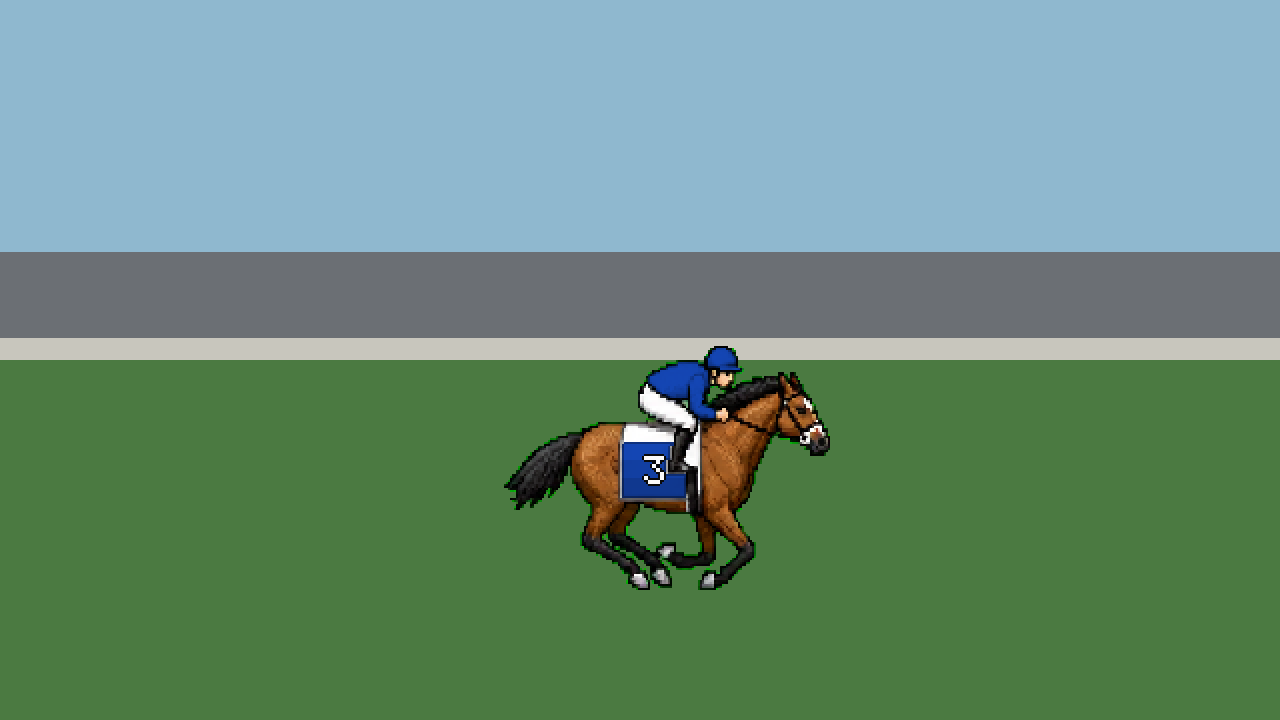
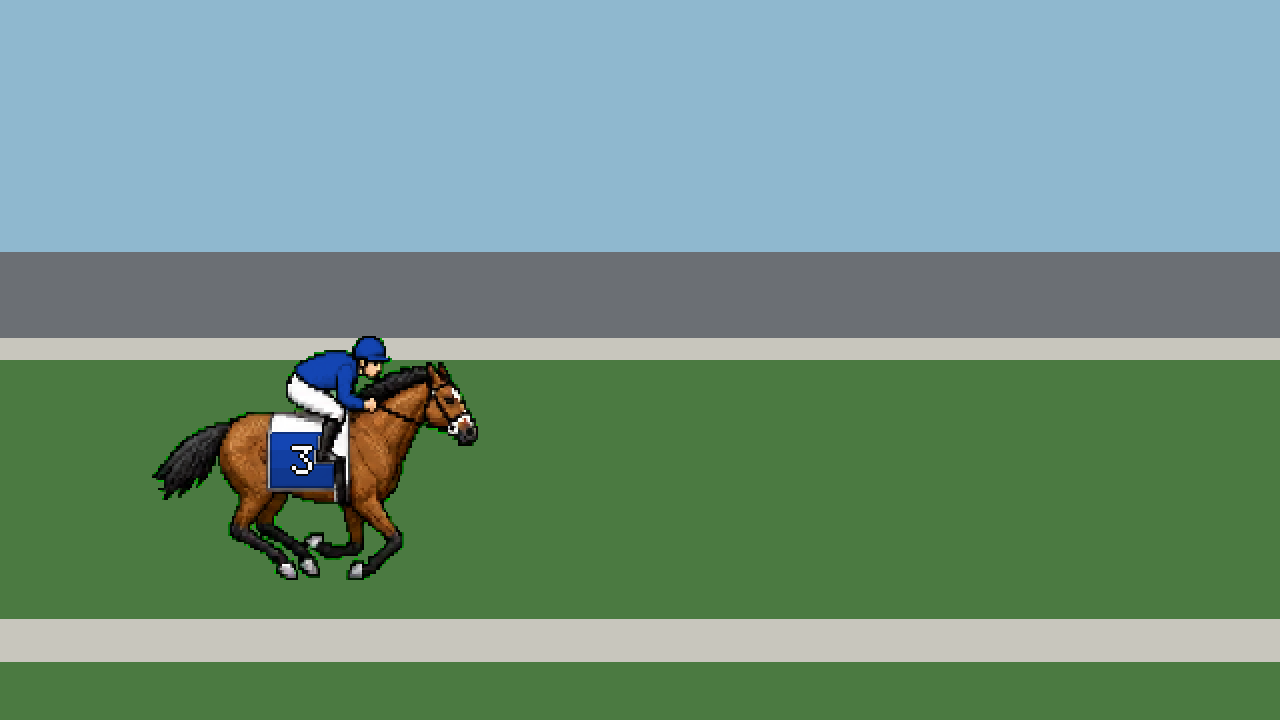
P4: カメラが馬群を写す（1頭固定をやめる）／段を6段に詰めて奥→手前で描く／手前のラチ／★エンジンの走破タイム差が35秒（415m）と判明

Changed region(s): [[0.0, 0.8556, 1.0, 0.9167], [0.125, 0.4583, 0.375, 0.825], [0.375, 0.4889, 0.6562, 0.825]]

diff --git a/packages/render/src/scene.ts b/packages/render/src/scene.ts
@@ -194,6 +194,13 @@ export interface SceneInput {
    *   ⚠ ここで「何mごとか」を発明しません。**間隔は呼び出し側が渡します**。
    */
   readonly poleEveryMeter?: number | undefined;
+  /**
+   * ★カメラを先頭寄りに構える度合い（0＝馬群の重心 / 1＝先頭）。既定 0.5。
+   *   中継は先頭を画面のやや前寄りに置きます。
+   */
+  readonly packBias?: number | undefined;
+  /** ★手前のラチを出すか（馬より前に描かれます） */
+  readonly foregroundRail?: boolean | undefined;
 }
 
 /**
@@ -219,15 +226,44 @@ const BANDS: readonly {
  * ★**カメラ**: 先頭馬を画面の一定位置に置き、走路をスクロールさせる。
  *   アートバイブル §3「奥行きは速度差だけで作る（線遠近を描き込まない）」。
  */
-function cameraMeters(horses: readonly HorseAt[], follow: number | undefined): number {
-  if (follow !== undefined) {
-    const target = horses.find((h) => h.gate === follow);
-    if (target !== undefined) return target.meters;
-  }
+function cameraMeters(
+  horses: readonly HorseAt[], follow: number | undefined, packBias: number,
+): number {
+  /**
+   * ★**カメラは「馬群」を写します。1頭を中央に置き続けません。**
+   *
+   * 【★オーナーの指摘（1996年の作品との比較）】
+   *   > ちゃんと競馬レースのカメラワークになっている。
+   *   > 開発サーバーは**1匹の主役をずっと中央に置いている**
+   *
+   *   中継のカメラは**先頭集団**を追い、先頭が画面のやや前寄りに来ます。
+   *   ★1頭に固定すると、他馬は**その馬との相対速度でしか動かず**、
+   *     画面の外へ出入りを繰り返します。
+   *
+   * 【★C-6 を殺さないこと】
+   *   自馬が画面から出ると仕掛けられません。
+   *   → 馬群の基準に寄せつつ、**自馬が画面に残るところまでで止めます**（下の呼び出し側で clamp）。
+   */
   let lead = 0;
   for (const h of horses) if (h.meters > lead) lead = h.meters;
-  return lead;
+
+  // ★先頭集団の重心（先頭から離れすぎた馬は「馬群」ではないので数えない）
+  const PACK_M = 40;
+  let sum = 0, n = 0;
+  for (const h of horses) {
+    if (lead - h.meters > PACK_M) continue;
+    sum += h.meters;
+    n += 1;
+  }
+  const packCentre = n > 0 ? sum / n : lead;
+
+  // ★先頭寄りに構える（中継は先頭を画面の前寄りに置く）
+  const base = packCentre + (lead - packCentre) * packBias;
+  if (follow === undefined) return base;
+  const target = horses.find((h) => h.gate === follow);
+  return target === undefined ? base : base;
 }
+
 
 /**
  * ★ギャロップのフレームを、**時刻ではなく走った距離**から決める。
@@ -274,10 +310,20 @@ export function sceneAt(input: SceneInput, sec: number): Frame {
     throw new Error(`倍率は 1 か 2 だけです（受け取った値: ${String(camera.zoom)}）`);
   }
   const horses = model.at(sec);
-  const cam = cameraMeters(horses, camera.followGate);
-  const commands: DrawCommand[] = [];
   const PX_PER_M = input.pxPerMeter ?? SPRITE.width / 4;
   const PX_PER_M0 = PX_PER_M;
+
+  /**
+   * ★カメラの位置。馬群に構えつつ、**自馬が画面から出ないところで止めます**（C-6）。
+   */
+  const rawCam = cameraMeters(horses, camera.followGate, input.packBias ?? 0.5);
+  const halfM = vp.width / (2 * PX_PER_M * camera.zoom);
+  const ownHorse = input.ownGate === undefined
+    ? undefined : horses.find((h) => h.gate === input.ownGate);
+  const cam = ownHorse === undefined ? rawCam
+    : Math.max(ownHorse.meters - halfM * 0.55, Math.min(ownHorse.meters + halfM * 0.55, rawCam));
+  const commands: DrawCommand[] = [];
+
 
   /**
    * ★背景は**カメラの位置に応じて流します**（パララックス）。
@@ -335,7 +381,25 @@ export function sceneAt(input: SceneInput, sec: number): Frame {
    *   C-5（同じ seed から同じ映像）が**理由なく**崩れます。
    *   重なりの前後関係が要るなら、レンダラではなくここで明示的に決めること。
    */
-  const sorted = [...horses].sort((a, b) => a.gate - b.gate);
+  /**
+   * ★**奥（上の段）から手前（下の段）へ描きます。**
+   *   ⚠ 馬番順のままだと、手前の馬が奥の馬に隠れて**重なりが逆**になります。
+   *      実際の中継は**手前の馬が奥を隠します**。馬群に見せるにはこの順序が要ります。
+   *   ★同じ段の中は**馬番順**なので、順序は決まります（C-5 は崩れません）。
+   */
+  const laneOfGate = (g: number): number => (input.laneOf === undefined ? g - 1 : input.laneOf(g));
+  const laneCount = Math.max(1, input.laneCount ?? 3);
+  const ownLane = input.ownGate === undefined ? 0 : laneOfGate(input.ownGate);
+  /**
+   * ★並べるのは**画面上の段**です。生の段ではありません。
+   *   ⚠ 生の段で並べたら、自馬基準の巡回で順序が入れ替わり、
+   *      **奥の馬が手前の馬を隠す**フレームが出ました（検査が落ちて気づきました）。
+   */
+  const screenLane = (g: number): number =>
+    (((laneOfGate(g) - ownLane) % laneCount) + laneCount) % laneCount;
+  const sorted = [...horses].sort(
+    (a, b) => (screenLane(a.gate) - screenLane(b.gate)) || (a.gate - b.gate),
+  );
 
   /**
    * ★**1m あたりの画素。スプライトの実寸と整合していなければなりません。**
@@ -354,7 +418,6 @@ export function sceneAt(input: SceneInput, sec: number): Frame {
   for (const h of sorted) {
     // ★倍率は**整数**なので、位置も整数倍になります（画素が割れません）
     const x = Math.round(vp.width * 0.35 + (h.meters - cam) * PX_PER_M * z);
-    const lane = input.laneOf === undefined ? h.gate - 1 : input.laneOf(h.gate);
     /**
      * ★**自馬の段を画面に入れる**（C-6 の前提）。
      *
@@ -366,9 +429,6 @@ export function sceneAt(input: SceneInput, sec: number): Frame {
      *   → 自馬の段が**先頭の段に来るよう縦にずらします**。カメラの縦の追従です。
      *     自馬を指定していないときはずらしません（観戦モード）。
      */
-    const ownLane = input.ownGate === undefined
-      ? 0
-      : (input.laneOf === undefined ? input.ownGate - 1 : input.laneOf(input.ownGate));
     /**
      * ★**段は必ず走路の中に収めます。**
      *
@@ -377,9 +437,7 @@ export function sceneAt(input: SceneInput, sec: number): Frame {
      *      ★**馬が芝の上（スタンドや空）を走っていました。** 実際に空を走っていました。
      *   → **巡回**させます。自馬が必ず先頭の段に来て、他は下に回ります。
      */
-    const laneCount = Math.max(1, input.laneCount ?? 3);
-    const rel = (((lane - ownLane) % laneCount) + laneCount) % laneCount;
-    const y = vp.trackTop + rel * vp.laneHeight * z;
+    const y = vp.trackTop + screenLane(h.gate) * vp.laneHeight * z;
     const sprite: SpriteRef = {
       sheet: 'horse-gallop',
       frame: gallopFrame(h.gate, input.gallopFrames, input.animSec ?? sec, 1 / (input.secondsPerMeter ?? 1 / 16)),
@@ -408,6 +466,25 @@ export function sceneAt(input: SceneInput, sec: number): Frame {
         scale: z,
       });
     }
+  }
+
+  /**
+   * ★**手前のラチ**（馬より後に描く＝馬の前に来る）。
+   *
+   *   ⚠ 奥のラチだけだと、馬が**芝の上に貼った絵**に見えます。
+   *      手前に柵が1本入るだけで、**馬が「走路の中にいる」**ように見えます。
+   *   ★アートバイブル §3「奥行きは速度差だけで作る」に沿って、**手前ほど速く流します**。
+   */
+  if (input.foregroundRail === true) {
+    commands.push({
+      kind: 'parallax',
+      role: 'rail',
+      y: Math.round(vp.height * 0.86),
+      height: Math.round(vp.height * 0.06),
+      tileWidth: 48,
+      // ★手前なので走路より速い
+      offset: Math.max(0, Math.round(cam * PX_PER_M * 1.35)),
+    });
   }
 
   /**

diff --git a/packages/render/test/camera.test.ts b/packages/render/test/camera.test.ts
@@ -427,3 +427,64 @@ describe('★見て分かった不具合を固定する', () => {
     expect(sceneAt(input(1), 30).commands.filter((c) => c.kind === 'pole')).toHaveLength(0);
   });
 });
+
+/**
+ * ★カメラは馬群を写す（オーナー指摘 ①・1996年の作品との比較）
+ *
+ *   > ちゃんと競馬レースのカメラワークになっている。
+ *   > 開発サーバーは**1匹の主役をずっと中央に置いている**
+ */
+describe('★カメラが馬群を写す（1頭に固定しない）', () => {
+  it('★自馬は画面の同じ場所に貼り付かない', () => {
+    /**
+     * ⚠ 以前は `x = 0.35W + (m - cam)·px` で `cam = 自馬の位置` だったので、
+     *    **自馬の x は常に 0.35W** でした。他馬だけが出入りして見えます。
+     */
+    const xs = new Set<number>();
+    for (let sec = 10; sec <= 90; sec += 10) {
+      const own = sceneAt(input(1), sec).commands
+        .find((c) => c.kind === 'sprite' && c.silk === 'silk-5') as { at: { x: number } } | undefined;
+      expect(own).toBeDefined();
+      xs.add(own!.at.x);
+    }
+    expect(xs.size).toBeGreaterThan(1);
+  });
+
+  it('★★それでも自馬は画面から出ない（C-6 の前提）', () => {
+    for (const own of [1, 5, 12, 18]) {
+      for (const z of [1, 2] as Zoom[]) {
+        for (let sec = 0; sec <= 99; sec += 3) {
+          const sp = sceneAt({ ...input(z), ownGate: own }, sec).commands
+            .find((c) => c.kind === 'sprite' && c.silk === `silk-${own}`) as { at: { x: number } };
+          expect(sp.at.x).toBeGreaterThan(-SPRITE.width * z);
+          expect(sp.at.x).toBeLessThan(1280);
+        }
+      }
+    }
+  });
+
+  it('★手前の馬が奥の馬を隠す（馬群に見える順序）', () => {
+    const cmds = sceneAt({ ...input(1), laneOf: (g) => (g - 1) % 6, laneCount: 6 }, 30)
+      .commands.filter((c) => c.kind === 'sprite') as { at: { y: number } }[];
+    // ★後に描かれるものほど手前＝y が大きい（単調非減少）
+    for (let i = 1; i < cmds.length; i += 1) {
+      expect(cmds[i]!.at.y).toBeGreaterThanOrEqual(cmds[i - 1]!.at.y);
+    }
+  });
+
+  it('★手前のラチは、馬より後に描かれる（馬の前に来る）', () => {
+    const cmds = sceneAt({ ...input(1), foregroundRail: true }, 30).commands;
+    const lastSprite = cmds.map((c) => c.kind).lastIndexOf('sprite');
+    const rails = cmds
+      .map((c, i) => ({ c, i }))
+      .filter((x) => x.c.kind === 'parallax' && x.c.role === 'rail');
+    expect(rails.length).toBe(2);                      // 奥と手前
+    expect(rails[1]!.i).toBeGreaterThan(lastSprite);   // ★手前は馬より後
+  });
+
+  it('★対照: 求めなければ手前のラチは出ない', () => {
+    const rails = sceneAt(input(1), 30).commands
+      .filter((c) => c.kind === 'parallax' && c.role === 'rail');
+    expect(rails).toHaveLength(1);
+  });
+});

diff --git a/packages/render/test/scene.test.ts b/packages/render/test/scene.test.ts
@@ -43,18 +43,29 @@ describe('★§12.8 描画抽象化', () => {
     expect(a).not.toBe(b);
   });
 
-  it('★描く順序が馬番で固定される（同着付近で順序が揺れない）', () => {
-    // 全馬が同じ位置でも、コマンドの並びは馬番順
-    const same: PositionModel = {
-      raceSec: 10, distanceMeter: 1600,
-      at: () => [3, 1, 2].map((g) => ({ gate: g, meters: 500, staminaRatio: 1 })),
+  it('★描く順序が「位置」で変わらない（同着付近で順序が揺れない）', () => {
+    /**
+     * ★**この検査の目的は「馬番順であること」ではありません。**
+     *   **位置で順序が変わらないこと**です（同着付近で描画コマンドが揺れると C-5 が崩れる）。
+     *
+     *   ⚠ 順序は **段（奥→手前）→ 馬番** になりました。
+     *      実際の中継は**手前の馬が奥を隠す**ので、馬群に見せるにはこの順序が要ります。
+     *      段も馬番も**レース中に変わらない**ので、C-5 の目的は保たれます。
+     */
+    const silksAt = (meters: (g: number) => number): (string | undefined)[] => {
+      const m: PositionModel = {
+        raceSec: 10, distanceMeter: 1600,
+        at: () => [3, 1, 2].map((g) => ({ gate: g, meters: meters(g), staminaRatio: 1 })),
+      };
+      return sceneAt({ ...input(), model: m }, 5).commands
+        .filter((c) => c.kind === 'sprite').map((c) => (c as { silk?: string }).silk);
     };
-    const f = sceneAt({ ...input(), model: same }, 5);
-    const gates = f.commands.filter((c) => c.kind === 'sprite').map((_c, i) => i);
-    expect(gates.length).toBe(3);
-    // 勝負服の並びで馬番順を確認する
-    const silks = f.commands.filter((c) => c.kind === 'sprite').map((c) => (c as { silk?: string }).silk);
-    expect(silks).toEqual(['silk-1', 'silk-2', 'silk-3']);
+    const allSame = silksAt(() => 500);
+    expect(allSame.length).toBe(3);
+    // ★位置を入れ替えても、描く順序は1つも変わらない
+    expect(silksAt((g) => 500 + g * 30)).toEqual(allSame);
+    expect(silksAt((g) => 500 - g * 30)).toEqual(allSame);
+    expect(silksAt((g) => (g === 2 ? 900 : 100))).toEqual(allSame);
   });
 
   it('★スタミナゲージは自馬にのみ出る（§12.6）', () => {

diff --git a/apps/web/src/app/watch/page.tsx b/apps/web/src/app/watch/page.tsx
@@ -27,8 +27,13 @@ import POOL from '../../lib/watch-pool.json';
 
 const DIST = 1600;
 const FIELD = 12;
-const LANES = 3;
-const VIEW = { width: 1280, height: 720, trackTop: 340, laneHeight: 105 };
+/**
+ * ★**段を増やして詰めます。**
+ *   実際のレースは馬が重なって見えます。3段・105px 間隔では**まばら**でした。
+ *   ⚠ 段の数は「画面に何頭映るか」ではなく「**馬群に見えるか**」で決めます。
+ */
+const LANES = 6;
+const VIEW = { width: 1280, height: 720, trackTop: 330, laneHeight: 46 };
 const STRATS: readonly Strategy[] = ['nige', 'senko', 'sashi', 'oikomi'];
 
 interface Built {
@@ -151,6 +156,7 @@ export default function WatchPage(): React.JSX.Element {
       gallopFrames: 6,
       laneOf: (g) => (g - 1) % LANES,
       laneCount: LANES,
+      foregroundRail: true,
       strategyOf: built.strategyOf,
       pace: built.pace,
       // ★脚は**表示の時計**で回す（送りを速くしても小走りにならない）
